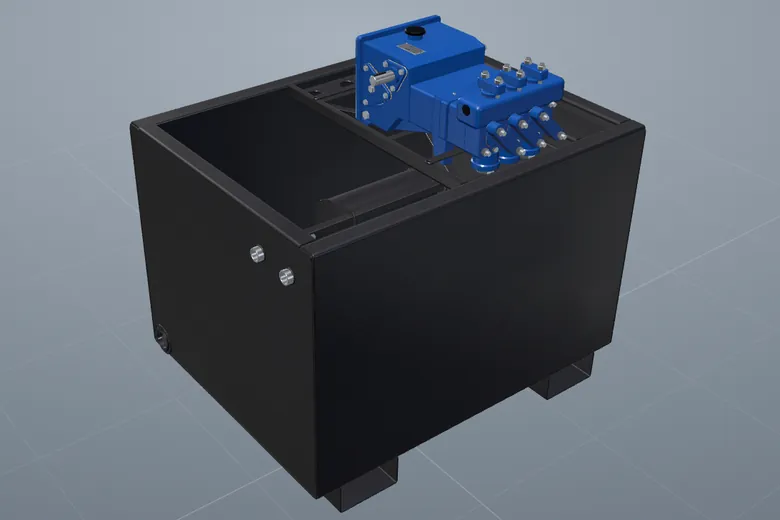
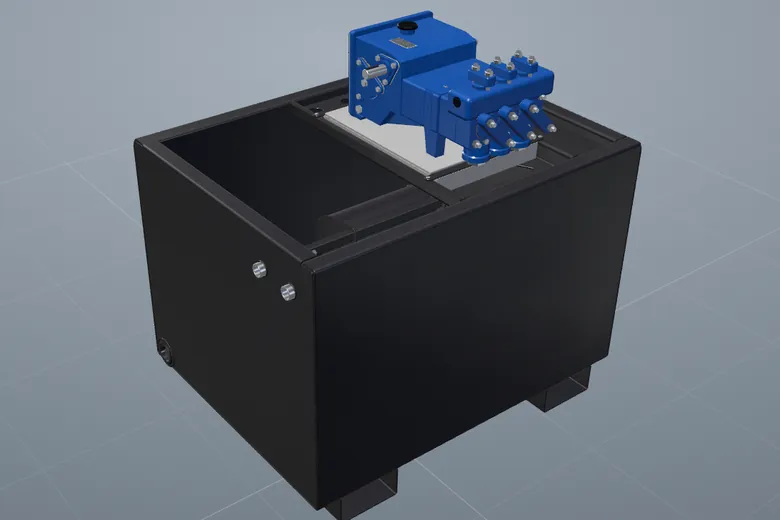
Tube à l'eau : la pompe Bean 420 fixée sans modifier le bac, sur une embase d'adaptation proposée (demande du client)
Le bac est à l'échelle du plan ; c'est la pompe qu'on adapte. Ses cinq trous
taraudés 1/2-13 ne tombent sur aucune pièce du bac, qui offre en revanche un
logement dans la traverse : 15 1/16 po entre les flancs, 2 po de haut sous les
deux barres, espacées de 20 1/8 po. Le plan dessine à chaque bout des barres
deux cercles concentriques, lus comme le trou de 5/16 po de la barre au-dessus
d'un taraudage 1/4-20 de l'aile (boulon 1/4-20 × 1/2 po de la nomenclature,
repère 9, désormais montré aux quatre bouts) : les barres sont des brides
démontables.

Embase (repère 12, sur aucun plan) : cadre soudé en tube rectangulaire de
2 × 1 × 1/8 po, de 15 × 21 1/8 po, dont les traverses sont à l'aplomb des barres
qui les serrent sur le fond ; plaque de 15 × 19 1/16 × 3/8 po entre les barres,
percée au gabarit de la pompe ; cinq boulons 1/2-13 × 1 po vissés par-dessous
(repère 13). Pompe en travers du bac, culasses vers la face avant ; orifices
d'aspiration devant l'embase, au-dessus de l'ajour avant du fond de la traverse.

Contrôle scripts/check-pompe-bean-420.mjs porté à 72 mesures (logement, jeux,
gabarit des trous, prise des boulons, rien ne se traverse). Fiche, vignette,
index et README mis à jour.

Claude-Session: https://claude.ai/code/session_015N4WsuTB3EsbGoLfNpbbdV

diff --git a/src/models/tube-eau/index.js b/src/models/tube-eau/index.js
@@ -10,8 +10,9 @@
 // relevées sur cette image, à l'échelle 1:3 que donnent les têtes des boulons
 // de 3/8 po (le cartouche inscrit 1:8, échelle de la feuille).
 // Pompe à eau Bean 420 (American Manufacturing AL0918B) : modèle de l'équipement
-// pompe-bean-420, posé dans la traverse. Aucun plan ne montre son support : voir
-// POSE_POMPE.
+// pompe-bean-420, fixé au bac sans le modifier, par une embase d'adaptation logée
+// dans la traverse et serrée par les deux barres du bac. L'embase est une
+// proposition : aucun plan ne la montre. Voir EMBASE et POSE_POMPE.
 // Contrôle : scripts/check-tube-eau.mjs et scripts/check-pompe-bean-420.mjs.
 // Repère : X le long du bac (0 à la face extérieure du bout gauche, celui des
 // raccords de 1 po ; modèle centré), Y vers le haut (0 sous les pieds), Z en
@@ -66,14 +67,31 @@ export const FLOTTE = {
 // à 3 po du bout gauche.
 export const POSE_FLOTTE = { bout: 3, z: 26.5625 };
 
-// Pose de la pompe Bean 420 (aucun plan ne la donne, ni la pièce qui la porte) : dans la traverse, pattes sur le fond
-// ajouré, axe de la pompe sur celui de la traverse, pompe en travers du bac. Culasses vers la face avant, arbre d'entrée
-// vers le milieu du bac. La barre avant passe sous les cylindres, entre les colonnes d'aspiration et les pattes avant
-// de la pompe, à « barre » po derrière l'axe des clapets ; la barre arrière reste derrière le carter.
-export const POSE_POMPE = { barre: 2.85 };
+// Fixation de la pompe Bean 420 sans modifier le bac. Ce que le bac offre, à l'échelle du plan : un logement dans la
+// traverse (15 1/16 po entre les flancs, 2 po de haut sous les barres) et deux barres en travers, à 20 1/8 po d'axe en
+// axe. Le plan dessine à chaque bout des barres deux cercles concentriques : lus comme le trou de passage de 5/16 po de
+// la barre au-dessus d'un taraudage 1/4-20 de l'aile, pour le boulon 1/4-20 × 1/2 po de la nomenclature (repère 9). Les
+// barres sont donc des brides démontables. Les trous taraudés 1/2-13 de la pompe (8 1/2 × 12 11/16 po) ne tombant sur
+// aucune pièce du bac, c'est la pompe qu'on adapte : une embase (proposition, sur aucun plan) qui remplit le logement.
+// Cadre en tube rectangulaire de 2 × 1 po, de 15 po de large : ses deux traverses sont sous les barres, qui les serrent
+// sur le fond ; plaque de 3/8 po entre les barres, qui cale l'embase en long ; la pompe s'y boulonne par-dessous.
+export const EMBASE = { large: 15, tube: { w: 1, h: TRAV.creux - T, t: 1 / 8 }, plaque: 3 / 8, jeu: 1 / 32, boulon: { d: 0.5, len: 1, trou: 9 / 16 } };
+// Pompe en travers du bac, axe sur celui de la traverse, culasses vers la face avant, arbre d'entrée vers le milieu du
+// bac. Axe des clapets à « avance » po devant l'axe de la barre avant : les orifices d'aspiration tombent devant
+// l'embase, au-dessus de l'ajour avant du fond de la traverse.
+export const POSE_POMPE = { avance: 1.5 };
 POSE_POMPE.x = TRAV.xc;
-POSE_POMPE.y = PIED.h + HB - TRAV.creux + T; // dessus du fond de la traverse
-POSE_POMPE.z = BARRE.z[1] + POSE_POMPE.barre; // axe des clapets, depuis la face arrière du bac
+POSE_POMPE.fond = PIED.h + HB - TRAV.creux + T; // dessus du fond de la traverse
+POSE_POMPE.y = POSE_POMPE.fond + EMBASE.tube.h + EMBASE.plaque; // dessus de la plaque : base de la pompe
+POSE_POMPE.z = BARRE.z[1] + POSE_POMPE.avance; // axe des clapets, depuis la face arrière du bac
+/** Trous de fixation de la pompe dans le repère du bac, [x, z] : la pompe est tournée d'un quart de tour. */
+export const TROUS_POMPE = (() => {
+  const { avant, arriere } = COTE_POMPE.fixation;
+  return [[avant.x, -avant.z], [avant.x, avant.z], [arriere.x, -arriere.z], [arriere.x, arriere.z], [arriere.x, 0]]
+    .map(([xp, zp]) => [POSE_POMPE.x + zp, POSE_POMPE.z - xp]);
+})();
+/** Boulons 1/4-20 des barres (repère 9), [x, z] : un à chaque bout de chaque barre. */
+export const BOULONS_BARRES = BARRE.z.flatMap((z) => [-1, 1].map((s) => [TRAV.xc + s * (BARRE.len / 2 - BARRE.trou.bout), z]));
 
 const SOUDURE = 3 / 16; // symboles du plan (typique)
 const PEINT = 'black'; // peinture du bac et du corps de la flotte (demande du client)
@@ -334,6 +352,38 @@ function bride(S, material, peint) {
 }
 
 
+/**
+ * Embase d'adaptation de la pompe (proposition), dans le repère du bac : cadre soudé en tube rectangulaire dont les
+ * deux traverses sont à l'aplomb des barres, et plaque percée pour les cinq boulons de la pompe.
+ */
+function embase(S, material) {
+  const { tube, plaque, large, jeu } = EMBASE;
+  const y0 = POSE_POMPE.fond, y1 = y0 + tube.h;
+  const x0 = TRAV.xc - large / 2, x1 = TRAV.xc + large / 2;
+  const [za, zb] = BARRE.z;
+  const g = S.group();
+  // Section du tube : rectangle creux, [largeur, hauteur].
+  const section = (a0) => ({
+    ext: [[a0, y0], [a0 + tube.w, y0], [a0 + tube.w, y1], [a0, y1]],
+    int: [[a0 + tube.t, y0 + tube.t], [a0 + tube.w - tube.t, y0 + tube.t], [a0 + tube.w - tube.t, y1 - tube.t], [a0 + tube.t, y1 - tube.t]],
+  });
+  // Traverses sous les barres (même largeur qu'elles), d'un flanc à l'autre.
+  for (const z of [za, zb]) {
+    const t = section(z - tube.w / 2);
+    g.add(selonX(S, t.ext, x0, x1, material, { holes: [t.int] }));
+  }
+  // Longerons le long des flancs, entre les deux traverses.
+  for (const x of [x0, x1 - tube.w]) {
+    const t = section(x);
+    g.add(selonZ(S, t.ext, za + tube.w / 2, zb - tube.w / 2, material, { holes: [m(t.int)], bord: false })); // selonZ : trous en mètres
+  }
+  // Plaque entre les deux barres, percée à 9/16 po pour les boulons 1/2-13 de la pompe.
+  const zp0 = za + BARRE.w / 2 + jeu, zp1 = zb - BARRE.w / 2 - jeu;
+  g.add(aPlat(S, [[x0, zp0], [x1, zp0], [x1, zp1], [x0, zp1]], y1, y1 + plaque, material, { holes: TROUS_POMPE.map(([x, z]) => [x, z, EMBASE.boulon.trou / 2]) }));
+  g.children.forEach((c) => { c.userData.hasInterior = true; });
+  return g;
+}
+
 /** Contour d'une joue de la flotte : enveloppe du cercle du cylindre et de l'arrondi autour du bras. */
 function contourJoue() {
   const R = FLOTTE.joue.d / 2, r = FLOTTE.joue.r, { x, y } = FLOTTE.bras;
@@ -411,7 +461,7 @@ export function P02(api) {
   return { view: { dir: [0.8, 0.55, 1] } };
 }
 
-/** Tube à l'eau 1524010812 : bac, bouts, traverse, barres, pieds et raccords ; flotte 152042600 posée dedans, pompe Bean 420 dans la traverse. */
+/** Tube à l'eau 1524010812 : bac, bouts, traverse, barres, pieds et raccords ; flotte 152042600 posée dedans ; pompe Bean 420 sur son embase, serrée par les barres. */
 export function P01(api) {
   const S = api.S;
   // Peinture : tout le bac en noir, brides soudées comprises (demande du client ; le cartouche ne
@@ -436,7 +486,7 @@ export function P01(api) {
     cordonsBout(S, TOLE),
   )), [-0.32, 0, 0]);
   put('4', pose(traverse(S, TOLE)), [0, 0.3, 0]);
-  for (const z of BARRE.z) put('5', pose(barre(S, TOLE), TRAV.xc, PIED.h + HB, z), [0, 0.45, 0]);
+  for (const z of BARRE.z) put('5', pose(barre(S, TOLE), TRAV.xc, PIED.h + HB, z), [0, 0.7, 0]);
   for (const x of PIED.x) put('6', pose(pied(S, TOLE), x, 0), [0, -0.22, 0]);
   for (const z of MANCHON.z) put('7', pose(manchon(S, INOX, TOLE), 0, PIED.h + yManchon, z), [-0.5, 0, 0]);
   put('8', pose(bride(S, ACIER, TOLE), 0, PIED.h + BRIDE.y, BRIDE.z), [-0.5, 0, 0]);
@@ -447,10 +497,18 @@ export function P01(api) {
   const xf = T + POSE_FLOTTE.bout + bras.len - bras.avant; // face avant de la flotte
   const flotte = S.at(S.group(api.sub('P02')), [0, 0, 0], [Math.PI / 4, 0, 0]);
   put('10', pose(flotte, xf, PIED.h + yManchon - bras.x, POSE_FLOTTE.z - bras.y), [-0.25, 0.5, 0.4]);
+  // Vue éclatée, de bas en haut : traverse, boulons de la pompe, embase, barres, leurs boulons, pompe.
+  // Boulons 1/4-20 × 1/2 po des barres (repère 9) : à chaque bout, à travers la barre, dans l'aile de la traverse.
+  for (const [x, z] of BOULONS_BARRES) put('9', pose(S.bolt(0.25 * IN, 0.5 * IN, 'zinc', { axis: 'y' }), x, PIED.h + HB + T, z), [0, 0.82, 0]);
+  // Embase d'adaptation (proposition) : dans la traverse, sous les barres ; cinq boulons 1/2-13 × 1 po, têtes dessous.
+  put('12', pose(embase(S, 'grey'), 0, 0, 0), [0, 0.52, 0]);
+  for (const [x, z] of TROUS_POMPE) {
+    put('13', pose(S.bolt(EMBASE.boulon.d * IN, EMBASE.boulon.len * IN, 'zinc', { axis: '-y', washer: true }), x, POSE_POMPE.fond + EMBASE.tube.h, z), [0, 0.4, 0]);
+  }
   // Pompe Bean 420 : tournée d'un quart de tour (son axe X, des clapets vers le carter, pointe vers la face arrière
-  // du bac ; son arbre d'entrée, côté −Z, vers le bout gauche). Position supposée : voir POSE_POMPE.
+  // du bac ; son arbre d'entrée, côté −Z, vers le bout gauche), boulonnée sur la plaque de l'embase.
   const bean = S.at(S.group(api.sub('B01')), [0, 0, 0], [0, Math.PI / 2, 0]);
-  put('11', pose(bean, POSE_POMPE.x, POSE_POMPE.y, POSE_POMPE.z), [0, 0.55, 0]);
+  put('11', pose(bean, POSE_POMPE.x, POSE_POMPE.y, POSE_POMPE.z), [0, 1.05, 0]);
   return { view: { dir: [-0.75, 0.8, 1] } };
 }
 

diff --git a/README.md b/README.md
@@ -210,15 +210,27 @@ pièces (numéro, quantité, page du manuel).
   compare 63 mesures aux plans ; masses du modèle : 444,2 lb pour le bac
   (443,9 lb au cartouche) et 8,8 lb pour la flotte (8,9 lb, avec un cylindre
   en tôle de calibre 16). La pompe à eau Bean 420 (modèle de l'équipement
-  `pompe-bean-420`, repère 11) est posée dans la traverse, pattes sur le fond
-  ajouré, en travers du bac : culasses vers la face avant, arbre d'entrée vers
-  le milieu du bac. Cette pose est supposée : aucun plan ne montre son
-  support, et les quatre trous 1/2-13 de la pompe (8 1/2 × 12 11/16 po) ne
-  tombent ni sur les barres (espacées de 20 1/8 po, percées à 5/16 po) ni sur
-  les bandes du fond de la traverse ; l'embase manquante n'est pas modélisée.
-  La pompe est placée pour ne rien traverser (la barre avant passe sous ses
-  cylindres, entre les colonnes d'aspiration et les pattes avant), ce que
-  vérifie `scripts/check-pompe-bean-420.mjs`.
+  `pompe-bean-420`, repère 11) est fixée au bac sans que celui-ci soit modifié
+  (demande du client : le bac est à l'échelle, c'est la pompe qu'on adapte).
+  Ses cinq trous taraudés 1/2-13 (8 1/2 × 12 11/16 po) ne tombent sur aucune
+  pièce du bac ; elle reçoit donc une embase d'adaptation (repère 12), qui
+  n'existe sur aucun plan et qui est une proposition. Le bac offre un logement :
+  15 1/16 po entre les flancs de la traverse et 2 po de haut, juste sous les
+  deux barres, espacées de 20 1/8 po. Le plan dessine à chaque bout des barres
+  deux cercles concentriques, lus comme le trou de 5/16 po de la barre
+  au-dessus d'un taraudage 1/4-20 de l'aile, pour le boulon 1/4-20 × 1/2 po de
+  la nomenclature (repère 9, désormais montré aux quatre bouts) : les barres
+  sont des brides démontables. L'embase remplit ce logement : cadre soudé en
+  tube rectangulaire de 2 × 1 × 1/8 po, de 15 × 21 1/8 po, dont les deux
+  traverses sont à l'aplomb des barres, qui les serrent sur le fond ; plaque
+  de 15 × 19 1/16 × 3/8 po entre les barres, qui cale l'ensemble en long et
+  porte la pompe, tenue par cinq boulons 1/2-13 × 1 po vissés par-dessous
+  (repère 13). La pompe est en travers du bac, culasses vers la face avant,
+  arbre d'entrée vers le milieu du bac ; ses orifices d'aspiration tombent
+  devant l'embase, au-dessus de l'ajour avant du fond de la traverse. Si les
+  barres sont en réalité soudées, l'embase ne se met pas en place telle
+  quelle. `scripts/check-pompe-bean-420.mjs` vérifie le logement, les jeux, le
+  gabarit des trous et l'absence de pièces qui se traversent.
 
 - **Rack à outils 15083000** (`rack-outil`, Machines Roger International, plan
   d'assemblage soudé du 2021-08-31, une page, échelle 1:4) : plaque en U de
@@ -647,8 +659,8 @@ pièces (numéro, quantité, page du manuel).
   le modèle le remet sur cet axe. Les pièces de fonderie sont simplifiées,
   les trous de fixation ne sont pas percés, les accessoires de la figure 6
   ne sont pas modélisés. Bleu roi des photos du manuel. Contrôle chiffré :
-  `node scripts/check-pompe-bean-420.mjs` compare 46 mesures au manuel et à
-  la pose sur le tube à l'eau ; la fiche est écrite par
+  `node scripts/check-pompe-bean-420.mjs` compare 72 mesures au manuel et à
+  la fixation sur le tube à l'eau ; la fiche est écrite par
   `tools/pompe_bean_420_fiche.mjs` à partir des cotes du modèle.
 
 La page d'accueil (adresse sans « # », ou le logo en haut à gauche) liste
@@ -764,7 +776,7 @@ scripts/export-anim.mjs                     foreuse STM-1500 animée en .glb (sq
 scripts/export-porte.mjs                    porte 1801020 en maillages statiques à pivot pour Unreal (voir docs/porte-unreal.md)
 scripts/export-cles-unreal.mjs              clés à tuyau et support à pipewrench en .glb pour Unreal (voir docs/cles-unreal.md)
 scripts/check-cles-mixtes.mjs               contrôle chiffré des clés mixtes (cotes publiées par grandeur)
-scripts/check-pompe-bean-420.mjs            contrôle chiffré de la pompe Bean 420 (cotes du manuel, pose sur le tube à l'eau)
+scripts/check-pompe-bean-420.mjs            contrôle chiffré de la pompe Bean 420 (cotes du manuel, fixation sur le tube à l'eau)
 tools/pompe_bean_420_fiche.mjs              fiche de la pompe Bean 420 (listes, notes) → public/equipment/pompe-bean-420/data.json
 tools/cle_mixte_polyhaven_mesh.mjs          clé mixte de Poly Haven (glTF) → src/models/cles-mixtes/mesh.js
 tools/blender_fbx.py                        conversion du .glb animé en FBX pour Unreal Engine
